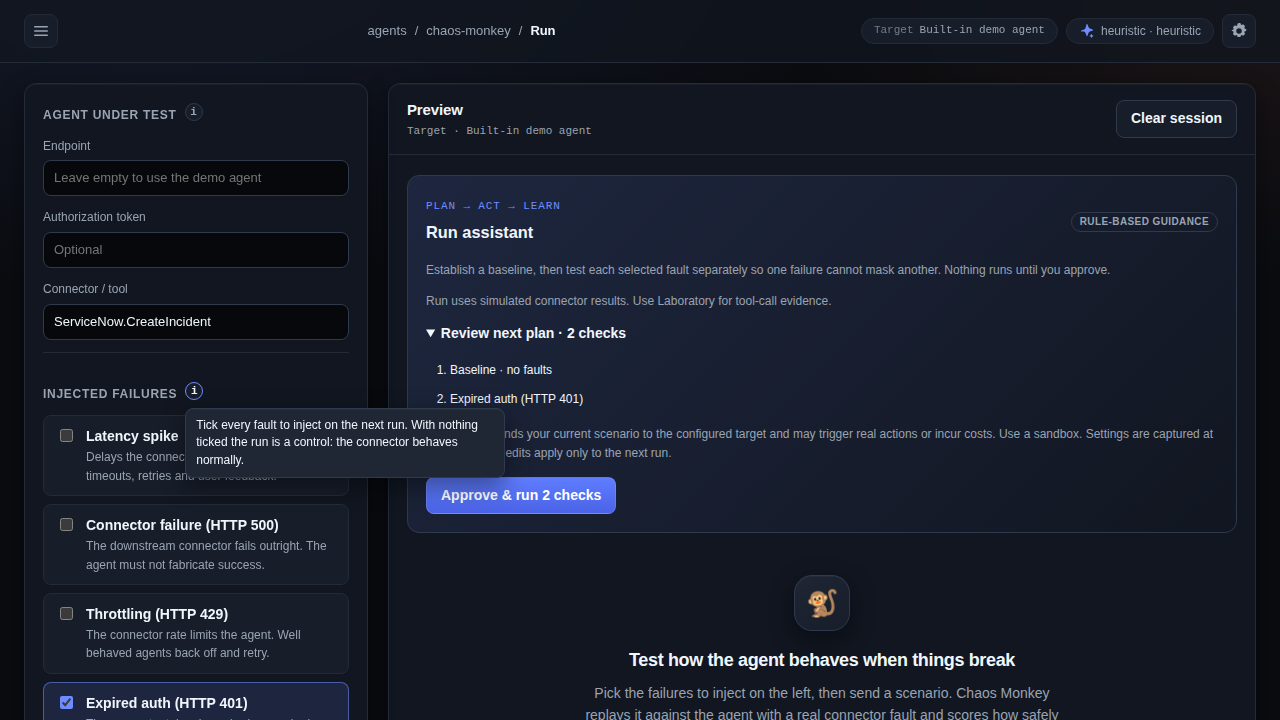
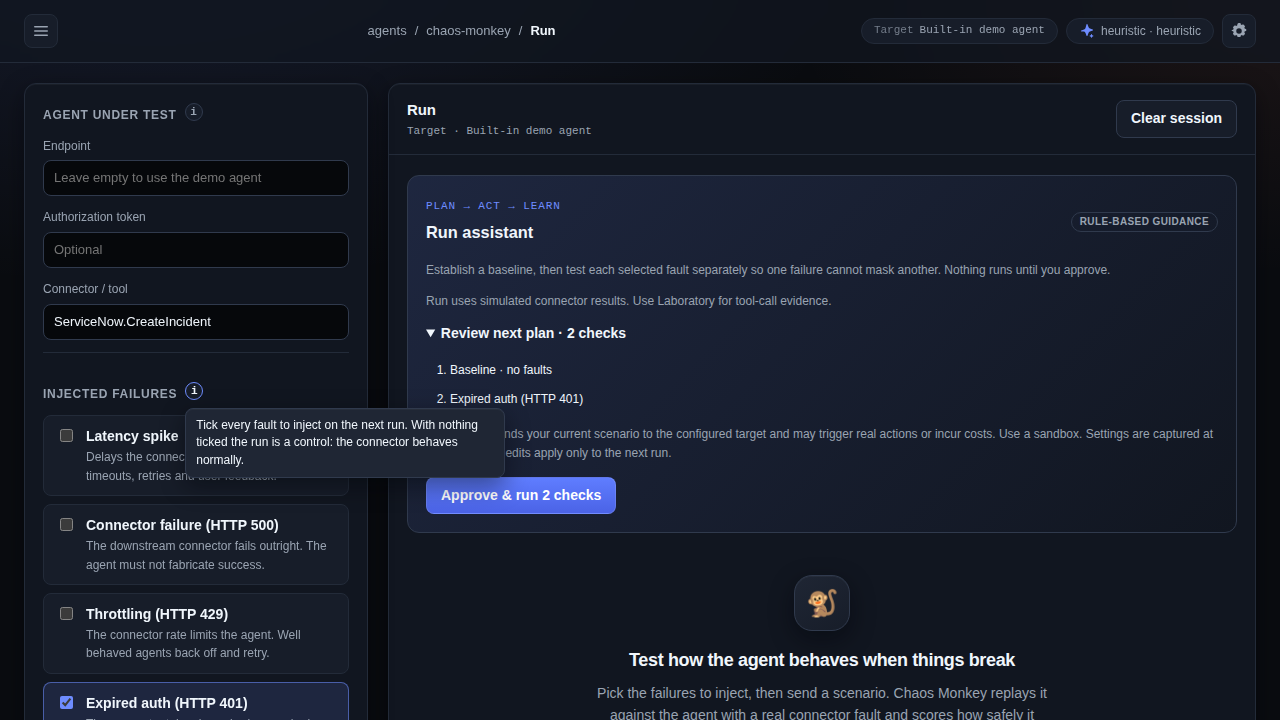
Show the Run pane and pin Run chaos on narrow viewports

Changed region(s): [[0.4375, 0.9472, 0.8438, 1.0], [0.3125, 0.1528, 0.375, 0.1833]]

diff --git a/frontend/e2e-static/static-demo.spec.ts b/frontend/e2e-static/static-demo.spec.ts
@@ -163,4 +163,23 @@ test.describe('static GitHub Pages build', () => {
     await openMenu(page)
     await page.screenshot({ path: `${screenshots}/06-static-mobile-navigation.png` })
   })
+
+  test('Run chaos is reachable without hunting on a phone viewport', async ({ page }) => {
+    await page.setViewportSize({ width: 390, height: 664 })
+    await page.goto('./')
+
+    const run = page.getByRole('button', { name: 'Run chaos' })
+    await expect(run).toBeInViewport()
+
+    // It stays pinned while the run pane is on screen.
+    await page.mouse.wheel(0, 400)
+    await expect(run).toBeInViewport()
+
+    await page.screenshot({ path: `${screenshots}/11-static-mobile-run-chaos.png` })
+
+    await run.click()
+    await expect(
+      page.getByRole('heading', { name: /unsafe|fragile|needs work|resilient/i }),
+    ).toBeVisible({ timeout: 30_000 })
+  })
 })

diff --git a/frontend/src/components/PreviewPane.tsx b/frontend/src/components/PreviewPane.tsx
@@ -45,7 +45,7 @@ export function PreviewPane(props: PreviewPaneProps) {
             </span>
             <h3>Test how the agent behaves when things break</h3>
             <p>
-              Pick the failures to inject on the left, then send a scenario. Chaos Monkey replays it
+              Pick the failures to inject, then send a scenario. Chaos Monkey replays it
               against the agent with a real connector fault and scores how safely it recovers.
             </p>
             <ul className="banner__hints">

diff --git a/frontend/src/index.css b/frontend/src/index.css
@@ -493,6 +493,20 @@ body {
     grid-template-columns: minmax(0, 1fr);
     padding: 16px;
   }
+
+  /* Stacked layout: show the run pane first so "Run chaos" is not buried
+     below the whole configuration panel. */
+  .workspace > .session {
+    order: -1;
+  }
+
+  /* Keep the composer (and its Run chaos button) pinned while the run pane is on screen. */
+  .composer {
+    position: sticky;
+    bottom: 0;
+    z-index: 1;
+    background: var(--surface);
+  }
 }
 
 @media (max-width: 700px) {
